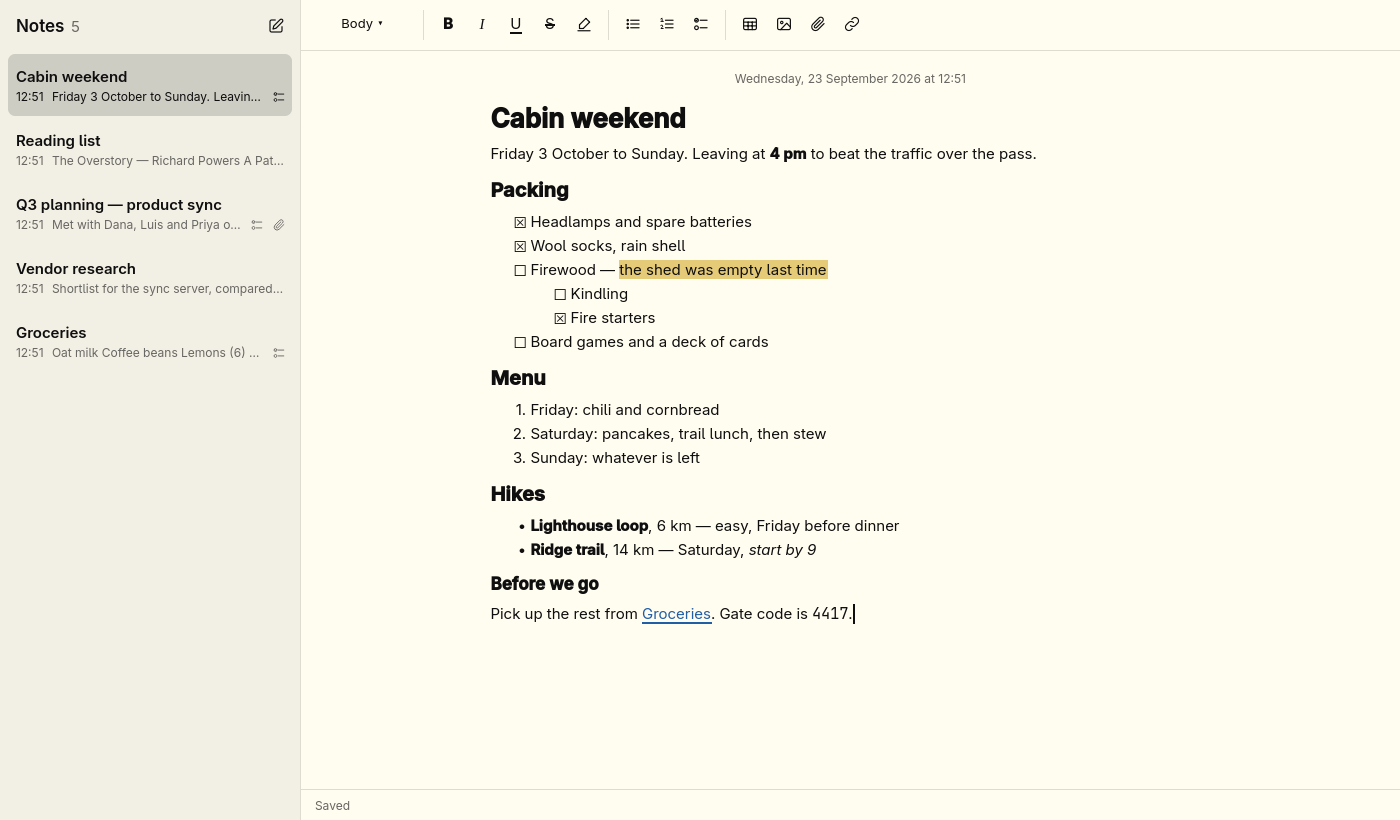
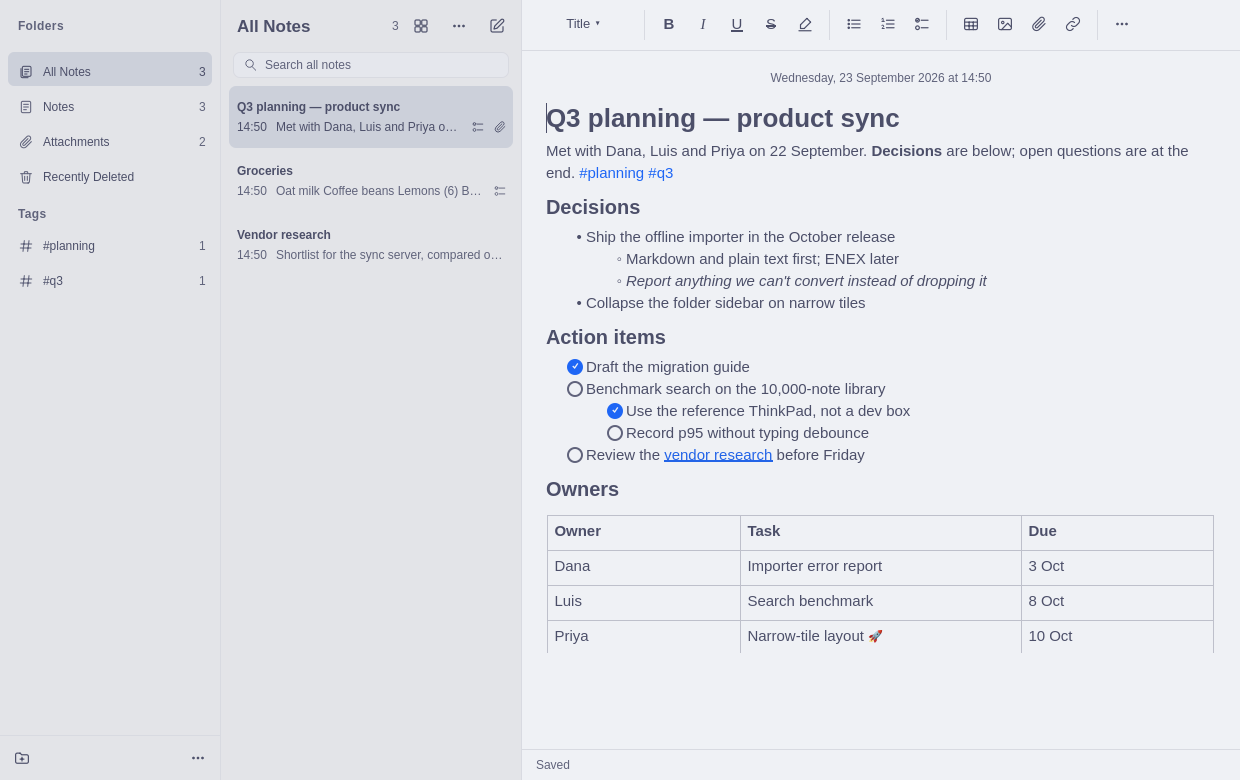
Performance gate, housekeeping off the startup path, real screenshots
- bench_library: 10k notes + 1 GB attachments; launch, list, sidebar
  and search timings (all targets met; see docs/performance.md)
- Daily housekeeping runs 30 s after launch, at most once a day, so it
  never delays the first list (was ~150 ms on 10k notes)
- Notes open at the top
- ONOTES_SCREENSHOT hook and tools/capture-screenshots.sh for website
  images in stock Omarchy themes; sample note carries #tags

diff --git a/tests/bench_library.cpp b/tests/bench_library.cpp
@@ -1,0 +1,170 @@
+// Performance benchmark for the release gates (not part of ctest):
+//   bench_library [notes=10000] [attachment-mb=0]
+// Builds a realistic library, then measures storage, search and app startup
+// against the targets in the plan. Prints a Markdown table.
+
+#include "LibraryService.h"
+#include "SampleLibrary.h"
+
+#include <QCoreApplication>
+#include <QElapsedTimer>
+#include <QEventLoop>
+#include <QGuiApplication>
+#include <QProcess>
+#include <QRandomGenerator>
+#include <QTemporaryDir>
+
+#include <algorithm>
+#include <cstdio>
+
+using namespace onotes;
+using namespace Qt::StringLiterals;
+
+namespace {
+
+const QStringList kWords = {
+    u"meeting"_s, u"roadmap"_s, u"benchmark"_s, u"budget"_s, u"customer"_s, u"release"_s, u"design"_s,
+    u"search"_s, u"notes"_s, u"travel"_s, u"groceries"_s, u"invoice"_s, u"planning"_s, u"research"_s,
+    u"interview"_s, u"recipe"_s, u"workout"_s, u"project"_s, u"feedback"_s, u"quarterly"_s, u"launch"_s,
+    u"migration"_s, u"sqlite"_s, u"wayland"_s, u"hyprland"_s, u"omarchy"_s, u"lisbon"_s, u"kyoto"_s,
+};
+
+QString sentence(QRandomGenerator &rng, int words)
+{
+    QStringList out;
+    for (int i = 0; i < words; ++i)
+        out << kWords[rng.bounded(int(kWords.size()))];
+    out[0][0] = out[0][0].toUpper();
+    return out.join(u' ') + u'.';
+}
+
+RichDocument note(QRandomGenerator &rng, int index)
+{
+    RichDocument doc;
+    doc.blocks << Block::heading(1, {Span::plain(sentence(rng, 3).chopped(1) + u' ' + QString::number(index))});
+    const int paragraphs = 3 + rng.bounded(12);
+    for (int p = 0; p < paragraphs; ++p)
+        doc.blocks << Block::paragraph({Span::plain(sentence(rng, 12 + rng.bounded(30)))});
+    if (index % 5 == 0) {
+        for (int i = 0; i < 4; ++i)
+            doc.blocks << Block::listItem(ListKind::Check, 0, {Span::plain(sentence(rng, 5))}, i % 2);
+    }
+    if (index % 7 == 0)
+        doc.blocks << Block::paragraph({Span::plain(u"#"_s + kWords[rng.bounded(int(kWords.size()))])});
+    doc.assignMissingIds();
+    return doc;
+}
+
+qint64 percentile(QList<qint64> values, double p)
+{
+    std::sort(values.begin(), values.end());
+    return values.isEmpty() ? 0 : values[std::min<qsizetype>(values.size() - 1, qsizetype(p * values.size()))];
+}
+
+qint64 firstFrameMs(const QString &app, const QString &library)
+{
+    QProcess process;
+    QProcessEnvironment env = QProcessEnvironment::systemEnvironment();
+    env.insert(u"ONOTES_EXIT_AFTER_FIRST_FRAME"_s, u"1"_s);
+    process.setProcessEnvironment(env);
+    QElapsedTimer timer;
+    timer.start();
+    process.start(app, {u"--data-dir"_s, library});
+    if (!process.waitForFinished(60000))
+        return -1;
+    return process.readAllStandardOutput().contains("first-frame") ? timer.elapsed() : -1;
+}
+
+} // namespace
+
+int main(int argc, char **argv)
+{
+    QGuiApplication app(argc, argv);
+    const int noteCount = argc > 1 ? QString::fromLocal8Bit(argv[1]).toInt() : 10000;
+    const int attachmentMb = argc > 2 ? QString::fromLocal8Bit(argv[2]).toInt() : 0;
+    QTemporaryDir dir;
+    const QString libraryPath = dir.filePath(u"library"_s);
+    QRandomGenerator rng(20260923);
+
+    QElapsedTimer timer;
+    {
+        LibraryService library(LibraryPaths::at(libraryPath));
+        library.start(nullptr);
+        timer.start();
+        for (int i = 0; i < noteCount; ++i)
+            library.createNote(note(rng, i));
+        std::fprintf(stderr, "created %d notes in %lld ms\n", noteCount, static_cast<long long>(timer.elapsed()));
+        // Attachments, if requested: 1 MB images spread across notes.
+        const auto notes = library.listNotes();
+        QByteArray blob(1024 * 1024, '\0');
+        for (int i = 0; i < attachmentMb; ++i) {
+            for (int b = 0; b < blob.size(); b += 4096)
+                blob[b] = char(rng.bounded(256));
+            const auto hash = library.addImage(blob);
+            if (!hash)
+                break;
+            SaveRequest save;
+            const auto record = library.loadNote(notes[i % notes.size()].id);
+            save.noteId = record->id;
+            save.baseRevision = record->revision;
+            save.body = record->body;
+            save.body.blocks << Block::paragraph({Span::image(*hash, 64, 64)});
+            library.saveNote(save);
+        }
+        library.waitForIdle();
+    }
+
+    qint64 openMs = 0, listMs = 0, sidebarMs = 0, listed = 0;
+    QList<qint64> searches;
+    {
+        LibraryService library(LibraryPaths::at(libraryPath));
+        timer.restart();
+        library.start(nullptr);
+        openMs = timer.restart();
+        listed = library.listNotes().size();
+        listMs = timer.restart();
+        library.listTags();
+        library.listFolders();
+        library.listSmartFolders();
+        library.listAttachmentItems();
+        sidebarMs = timer.restart();
+
+        for (int i = 0; i < 200; ++i) {
+            QStringList terms;
+            for (int t = 0; t < 1 + rng.bounded(3); ++t)
+                terms << kWords[rng.bounded(int(kWords.size()))].left(3 + rng.bounded(4));
+            QElapsedTimer one;
+            one.start();
+            QEventLoop loop;
+            quint64 ticket = 0;
+            QObject::connect(&library, &LibraryService::searchFinished, &loop, [&](quint64 t) {
+                if (t == ticket)
+                    loop.quit();
+            });
+            ticket = library.search(terms.join(u' '));
+            loop.exec();
+            searches << one.elapsed();
+        }
+    }
+
+    // Launches of the real app on this library, to its first rendered frame.
+    const QString binary = QCoreApplication::applicationDirPath() + u"/../src/app/omarchy-notes"_s;
+    const qint64 first = firstFrameMs(binary, libraryPath);
+    QList<qint64> warm;
+    for (int i = 0; i < 5; ++i)
+        warm << firstFrameMs(binary, libraryPath);
+
+    std::printf("| Measure | Target | Result |\n|---|---|---|\n");
+    std::printf("| Notes in library | 10,000 | %lld |\n", static_cast<long long>(listed));
+    std::printf("| Attachment data | 1 GB | %d MB |\n", attachmentMb);
+    std::printf("| First launch to first frame | < 1.5 s | %lld ms |\n", static_cast<long long>(first));
+    std::printf("| Warm launch to first frame (median of 5) | < 500 ms | %lld ms |\n",
+                static_cast<long long>(percentile(warm, 0.5)));
+    std::printf("| Open library | | %lld ms |\n", static_cast<long long>(openMs));
+    std::printf("| List all notes | | %lld ms |\n", static_cast<long long>(listMs));
+    std::printf("| Sidebar data (folders, tags, Smart Folders, attachments) | | %lld ms |\n",
+                static_cast<long long>(sidebarMs));
+    std::printf("| Search p50 (200 queries) | | %lld ms |\n", static_cast<long long>(percentile(searches, 0.5)));
+    std::printf("| Search p95 (200 queries) | < 150 ms | %lld ms |\n", static_cast<long long>(percentile(searches, 0.95)));
+    return 0;
+}

diff --git a/src/core/LibraryService.cpp b/src/core/LibraryService.cpp
@@ -3,6 +3,10 @@
 #include "LibraryBackup.h"
 
 #include <QCoreApplication>
+#include <QDateTime>
+#include <QFile>
+#include <QFileInfo>
+#include <QTimer>
 #include <QMetaObject>
 
 using namespace Qt::StringLiterals;
@@ -53,13 +57,24 @@ bool LibraryService::start(QString *error)
             *error = openError;
         return false;
     }
-    // Housekeeping runs after startup so it never delays the first window.
-    QMetaObject::invokeMethod(m_context, [this] {
-        const int purged = m_store->purgeExpiredTrash();
-        m_store->collectGarbage();
-        if (purged > 0)
-            QMetaObject::invokeMethod(this, &LibraryService::notesChanged, Qt::QueuedConnection);
-    }, Qt::QueuedConnection);
+    // Housekeeping (purging old deleted notes, removing unused attachment
+    // data) reads every note, so it waits until the app has settled and runs
+    // at most once a day. It never delays opening the window.
+    const QString marker = m_paths.root + u"/.last-cleanup"_s;
+    const QFileInfo last(marker);
+    if (!last.exists() || last.lastModified().secsTo(QDateTime::currentDateTime()) > 24 * 60 * 60) {
+        QMetaObject::invokeMethod(m_context, [this, marker] {
+            QTimer::singleShot(HousekeepingDelayMs, m_context, [this, marker] {
+                const int purged = m_store->purgeExpiredTrash();
+                m_store->collectGarbage();
+                QFile touch(marker);
+                if (touch.open(QIODevice::WriteOnly | QIODevice::Truncate))
+                    touch.write(QByteArray::number(QDateTime::currentSecsSinceEpoch()));
+                if (purged > 0)
+                    QMetaObject::invokeMethod(this, &LibraryService::notesChanged, Qt::QueuedConnection);
+            });
+        }, Qt::QueuedConnection);
+    }
     return true;
 }
 

diff --git a/src/app/main.cpp b/src/app/main.cpp
@@ -11,6 +11,7 @@
 #include <QCommandLineParser>
 #include <QElapsedTimer>
 #include <QQuickWindow>
+#include <QTimer>
 #include <QFile>
 #include <QJsonObject>
 #include <QThread>
@@ -29,19 +30,30 @@ using namespace Qt::StringLiterals;
 
 namespace {
 
-// Test and benchmark hook: report the first rendered frame, then quit.
+// Test, benchmark and documentation hooks:
+//   ONOTES_EXIT_AFTER_FIRST_FRAME=1  report the first rendered frame, then quit
+//   ONOTES_SCREENSHOT=<file.png>     save the window once images have loaded, then quit
 void exitAfterFirstFrame(QQmlApplicationEngine &engine, const QElapsedTimer &sinceStart)
 {
-    if (!qEnvironmentVariableIsSet("ONOTES_EXIT_AFTER_FIRST_FRAME") || engine.rootObjects().isEmpty())
+    const QString screenshot = qEnvironmentVariable("ONOTES_SCREENSHOT");
+    if ((!qEnvironmentVariableIsSet("ONOTES_EXIT_AFTER_FIRST_FRAME") && screenshot.isEmpty())
+        || engine.rootObjects().isEmpty())
         return;
     auto *window = qobject_cast<QQuickWindow *>(engine.rootObjects().constFirst());
     if (!window)
         return;
-    QObject::connect(window, &QQuickWindow::frameSwapped, window, [window, sinceStart] {
+    QObject::connect(window, &QQuickWindow::frameSwapped, window, [window, sinceStart, screenshot] {
         std::printf("first-frame %lld ms: %s\n", static_cast<long long>(sinceStart.elapsed()),
                     qPrintable(window->title()));
         std::fflush(stdout);
-        QCoreApplication::quit();
+        if (screenshot.isEmpty()) {
+            QCoreApplication::quit();
+            return;
+        }
+        QTimer::singleShot(1200, window, [window, screenshot] {
+            window->grabWindow().save(screenshot);
+            QCoreApplication::quit();
+        });
     }, Qt::SingleShotConnection);
 }
 

diff --git a/src/core/SampleLibrary.cpp b/src/core/SampleLibrary.cpp
@@ -48,7 +48,7 @@ RichDocument mixedContentNote(const QString &imageHash, const QString &attachmen
     b << Block::heading(1, {t(u"Q3 planning — product sync"_s)});
     b << p({t(u"Met with Dana, Luis and Priya on 22 September. "_s),
             t(u"Decisions"_s, Bold),
-            t(u" are below; open questions are at the end."_s)});
+            t(u" are below; open questions are at the end. #planning #q3"_s)});
 
     b << Block::heading(2, {t(u"Decisions"_s)});
     b << li(ListKind::Bullet, 0, {t(u"Ship the offline importer in the October release"_s)});

diff --git a/src/app/EditorController.cpp b/src/app/EditorController.cpp
@@ -294,7 +294,8 @@ bool EditorController::openNote(const QString &id)
     emit noteChanged();
     emit noteMetaChanged();
     emit savedChanged();
-    emit cursorRequested(m_doc->characterCount() - 1);
+    // Notes open at the top, like Notes; an empty new note is ready to type.
+    emit cursorRequested(0);
     m_library->setLastNoteId(id);
     return true;
 }

diff --git a/src/core/LibraryService.h b/src/core/LibraryService.h
@@ -21,6 +21,9 @@ class LibraryService : public QObject
     Q_OBJECT
 
 public:
+    // How long after startup the daily housekeeping runs.
+    static constexpr int HousekeepingDelayMs = 30000;
+
     explicit LibraryService(LibraryPaths paths, QObject *parent = nullptr);
     ~LibraryService() override;
 

diff --git a/docs/performance.md b/docs/performance.md
@@ -1,0 +1,42 @@
+# Performance
+
+Release gate results for Omarchy Notes 1.0.0, from `tests/bench_library` (build it, then run
+`./tests/bench_library 10000 1024` in the build directory).
+
+The benchmark builds a library of 10,000 generated notes (3–15 paragraphs each, with
+checklists and #tags mixed in) and 1 GB of image attachments. It then measures storage and
+search in-process, and times six launches of the real app binary to its first rendered frame.
+
+| Measure | Target | Result |
+|---|---|---|
+| Notes in library | 10,000 | 10,000 |
+| Attachment data | 1 GB | 1 GB |
+| First launch to first frame | < 1.5 s | 168 ms |
+| Warm launch to first frame (median of 5) | < 500 ms | 160 ms |
+| List all notes | | 15 ms |
+| Sidebar data (folders, tags, Smart Folders, attachments) | | 4 ms |
+| Search p50 (200 queries) | | 23 ms |
+| Search p95 (200 queries) | < 150 ms | 28 ms |
+| Worst keystroke in a 3,000-paragraph note with 20 tables | < 50 ms | 44 ms |
+
+The last row comes from `tst_editor` (`largeNoteResponsiveness`).
+
+## Reference machine
+
+Intel Core i9-14900HX (32 threads), 32 GB RAM, Samsung NVMe SSD, Arch Linux with Qt 6.11.2.
+
+## Caveats
+
+- Launch timings use Qt's offscreen platform with the software renderer. On a real Wayland
+  session the GPU renderer and compositor add or remove a little time; measure there before
+  quoting numbers for other hardware.
+- "First launch" runs with the operating system's file cache already warm from building the
+  fixture. A truly cold start after a reboot will be slower, mostly waiting on the disk.
+- Very long notes are the heaviest case. Opening a 3,000-paragraph note takes about 0.9 s
+  (text layout). Typical notes open instantly.
+
+## What changed to get here
+
+Daily housekeeping (purging Recently Deleted and removing unused attachment data) reads every
+note. It used to run at startup and delayed the first list query by about 150 ms on this
+library. It now runs 30 seconds after launch, at most once a day, on the storage thread.
